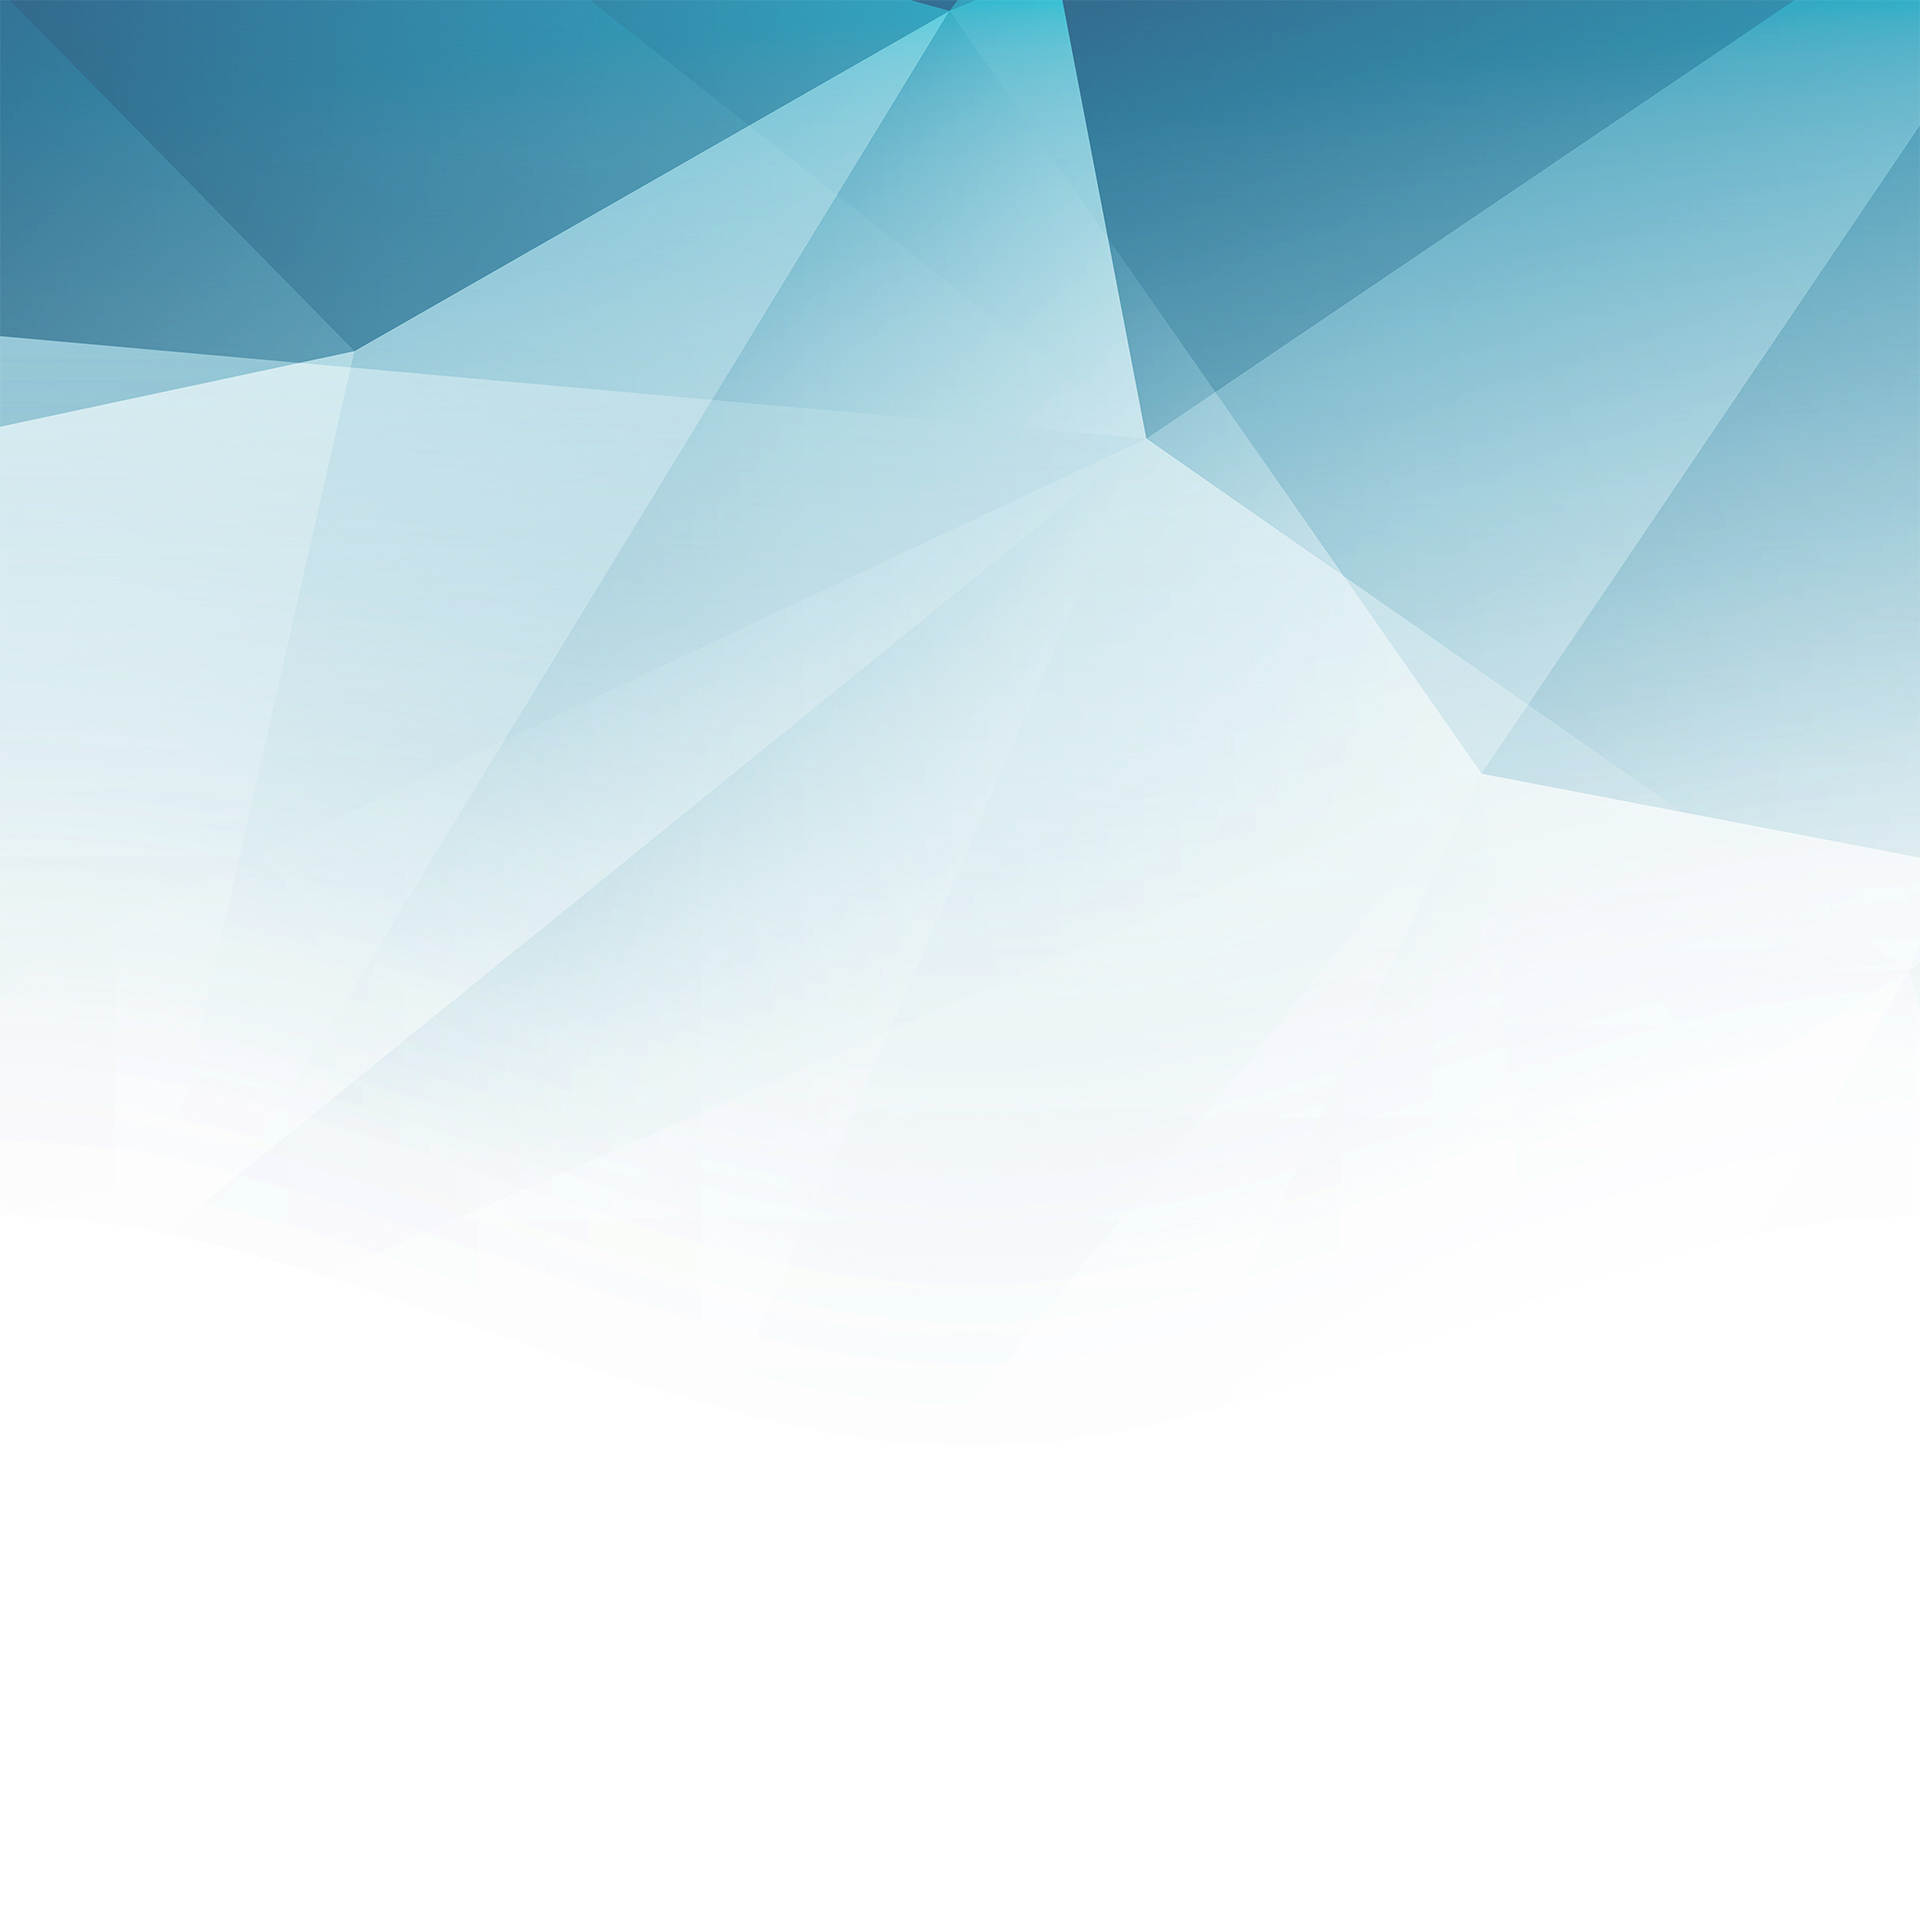
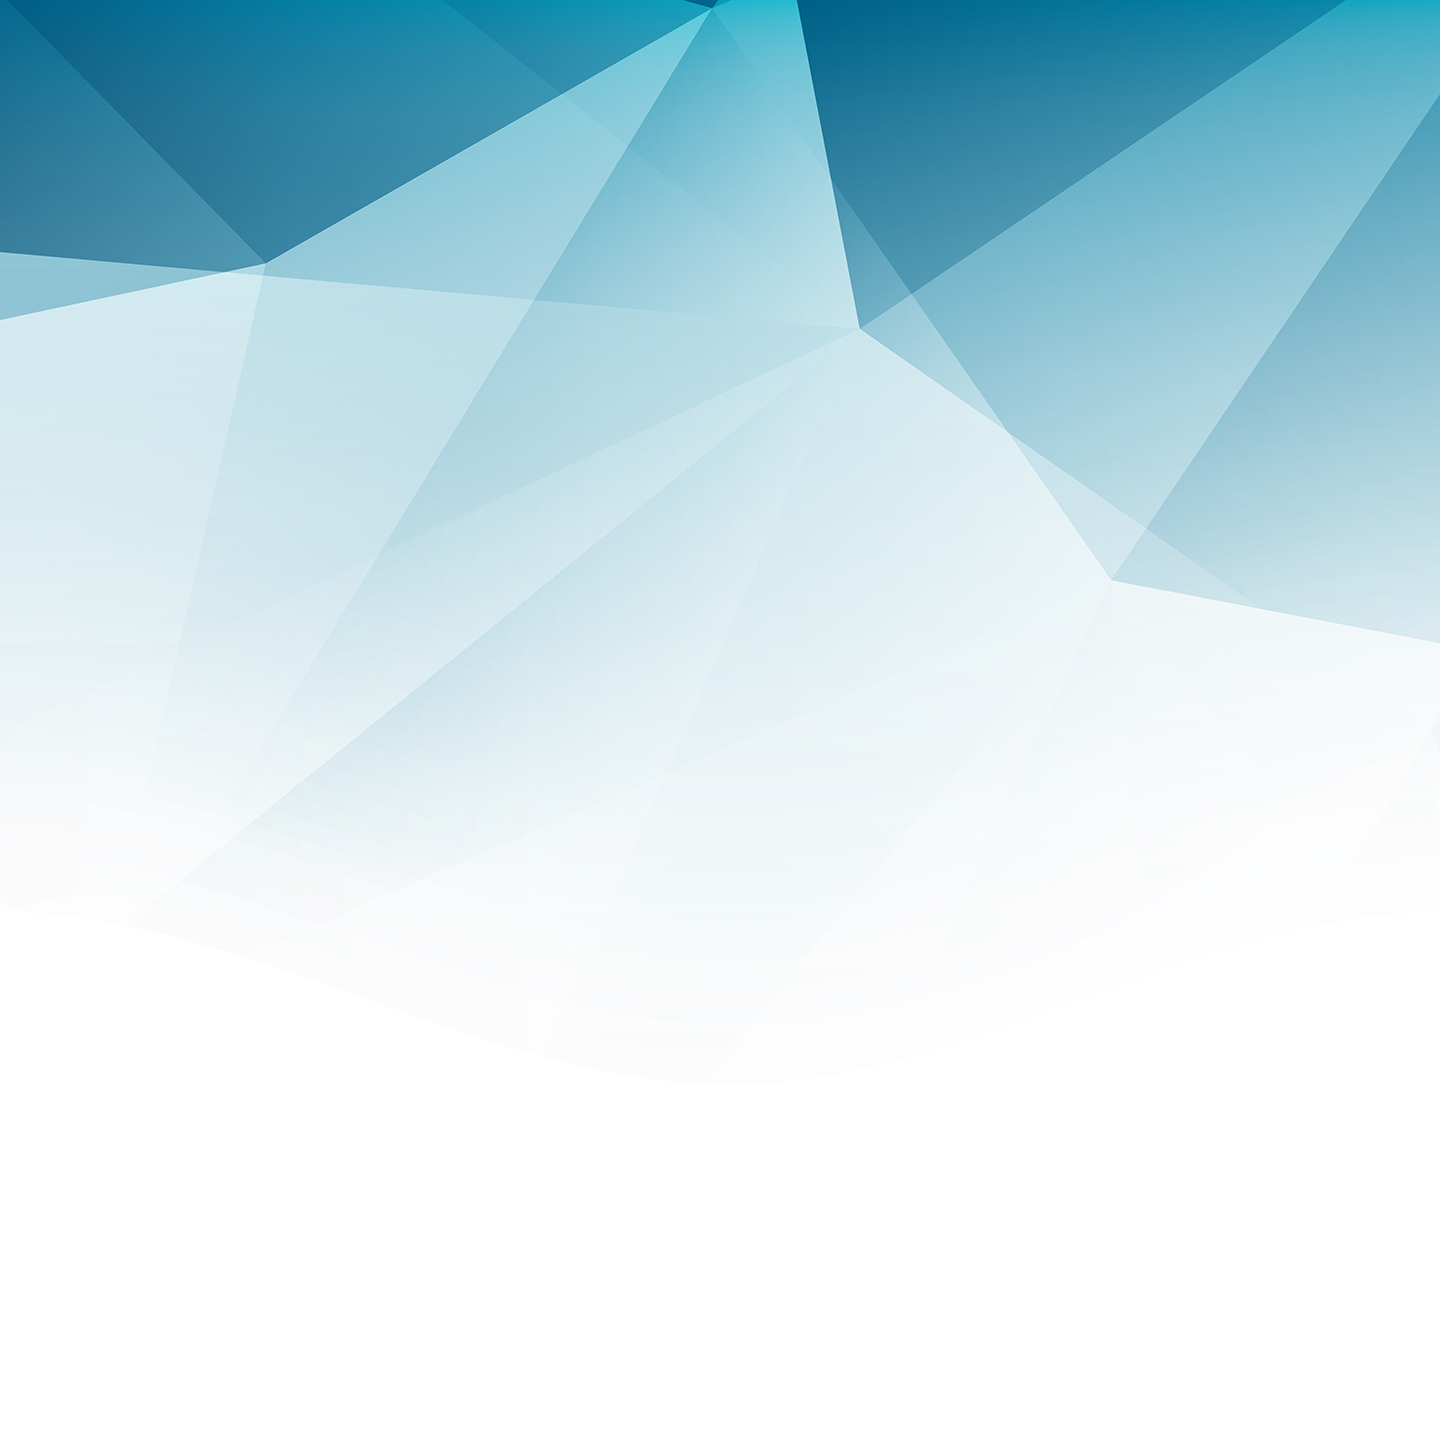
BG placement tweaks

Changed region(s): [[0.0, 0.0, 0.5, 0.0938], [0.5312, 0.0, 1.0, 0.0938]]

diff --git a/index.html b/index.html
@@ -31,12 +31,11 @@
         <div class="container">
           <h1 class="sr-only">Entitybase</h1>
           <h2 class="jumbotron-heading display-5">Get straight to building products</h2>
-          <p class="lead">
+          <p class="lead mb-5">
             Developing and maintaining your own APIs is expensive, risky and complex.<br>
             With Entitybase, you can redirect this energy to what really matters:<br>
             creating amazing customer experiences.
           </p>
-          <hr class="my-5">
           <div class="row justify-content-center">
             <div class="col-lg-3 col-md-4 col-sm-6 mb-4">
               <a class="btn btn-secondary btn-outline-secondary btn-block btn-lg" href="https://dashboard.entitybase.io/users/sign_up" target="_blank">Get started for free</a>
@@ -49,11 +48,9 @@
       </div>
     </div>
 
-    <hr class="container" id="more">
-
-    <div class="py-5">
+    <div class="py-5 bg-faded">
       <h2 class="display-5 text-center mb-5">How Entitybase works</h2>
-      <div class="container">
+      <div class="container mb-5">
         <div class="row">
           <div class="col-md-6 text-right mt-5">
             <img alt="Step 1" src="img/step-1.png" class="img-fluid img-thumbnail">
@@ -102,8 +99,6 @@
       </div>
     </div>
 
-    <hr class="container">
-
     <div class="text-center py-5">
       <h2 class="display-5 mb-5">Why you'll love Entitybase</h2>
       <div class="container">
@@ -127,21 +122,17 @@
       </div>
     </div>
 
-    <hr class="container">
-
-    <div class="text-center py-5">
-      <div class="container">
+    <div class="text-center py-5 bg-inverse">
+      <div class="container py-5">
         <div class="row justify-content-center">
           <div class="col-md-4">
-            <a class="btn btn-success btn-outline-success btn-block btn-lg" href="https://dashboard.entitybase.io/users/sign_up" target="_blank">Get started for free</a>
+            <a class="btn btn-secondary btn-outline-secondary btn-block btn-lg" href="https://dashboard.entitybase.io/users/sign_up" target="_blank">Get started for free</a>
           </div>
         </div>
       </div>
     </div>
 
-    <hr class="container">
-
-    <div class="small text-muted pt-4 pb-5">
+    <div class="small text-muted py-4">
       <div class="container">
         <div class="row">
           <div class="col-md-4">

diff --git a/css/app.css b/css/app.css
@@ -11,12 +11,11 @@
 }
 
 body {
-  background: url(../img/triangles-teal.jpg) no-repeat center center;
-  -webkit-background-size: cover;
-  -moz-background-size: cover;
-  -o-background-size: cover;
-  background-size: cover;
+  background: #fff url(../img/triangles-teal.jpg) no-repeat 50% 0;
+}
 
+.header {
+  box-shadow: inset 0px 0px 10px rgba(0,0,0,0.5);
 }
 
 .navbar .btn-secondary {
